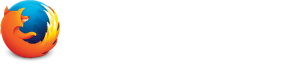
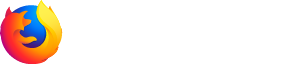
photonize wordmark

Changed region(s): [[0.0, 0.0, 0.2128, 1.0]]

diff --git a/frontend/src/styles/modules/_main-header.scss b/frontend/src/styles/modules/_main-header.scss
@@ -5,15 +5,16 @@
 
     .wordmark {
       @include respond-to('not-small') {
-        @include hidpi-background-image('wordmark', 296px 64px);
+        @include hidpi-background-image('wordmark', 302px 64px);
         height: 64px;
-        width: 296px;
+        width: 302px;
       }
-      @include hidpi-background-image('wordmark', 190px 41px);
+      @include hidpi-background-image('wordmark', 194px 41px);
+      background-repeat: no-repeat;
       display: block;
       height: 41px;
       position: relative;
-      width: 190px;
+      width: 200px;
     }
   }
 
